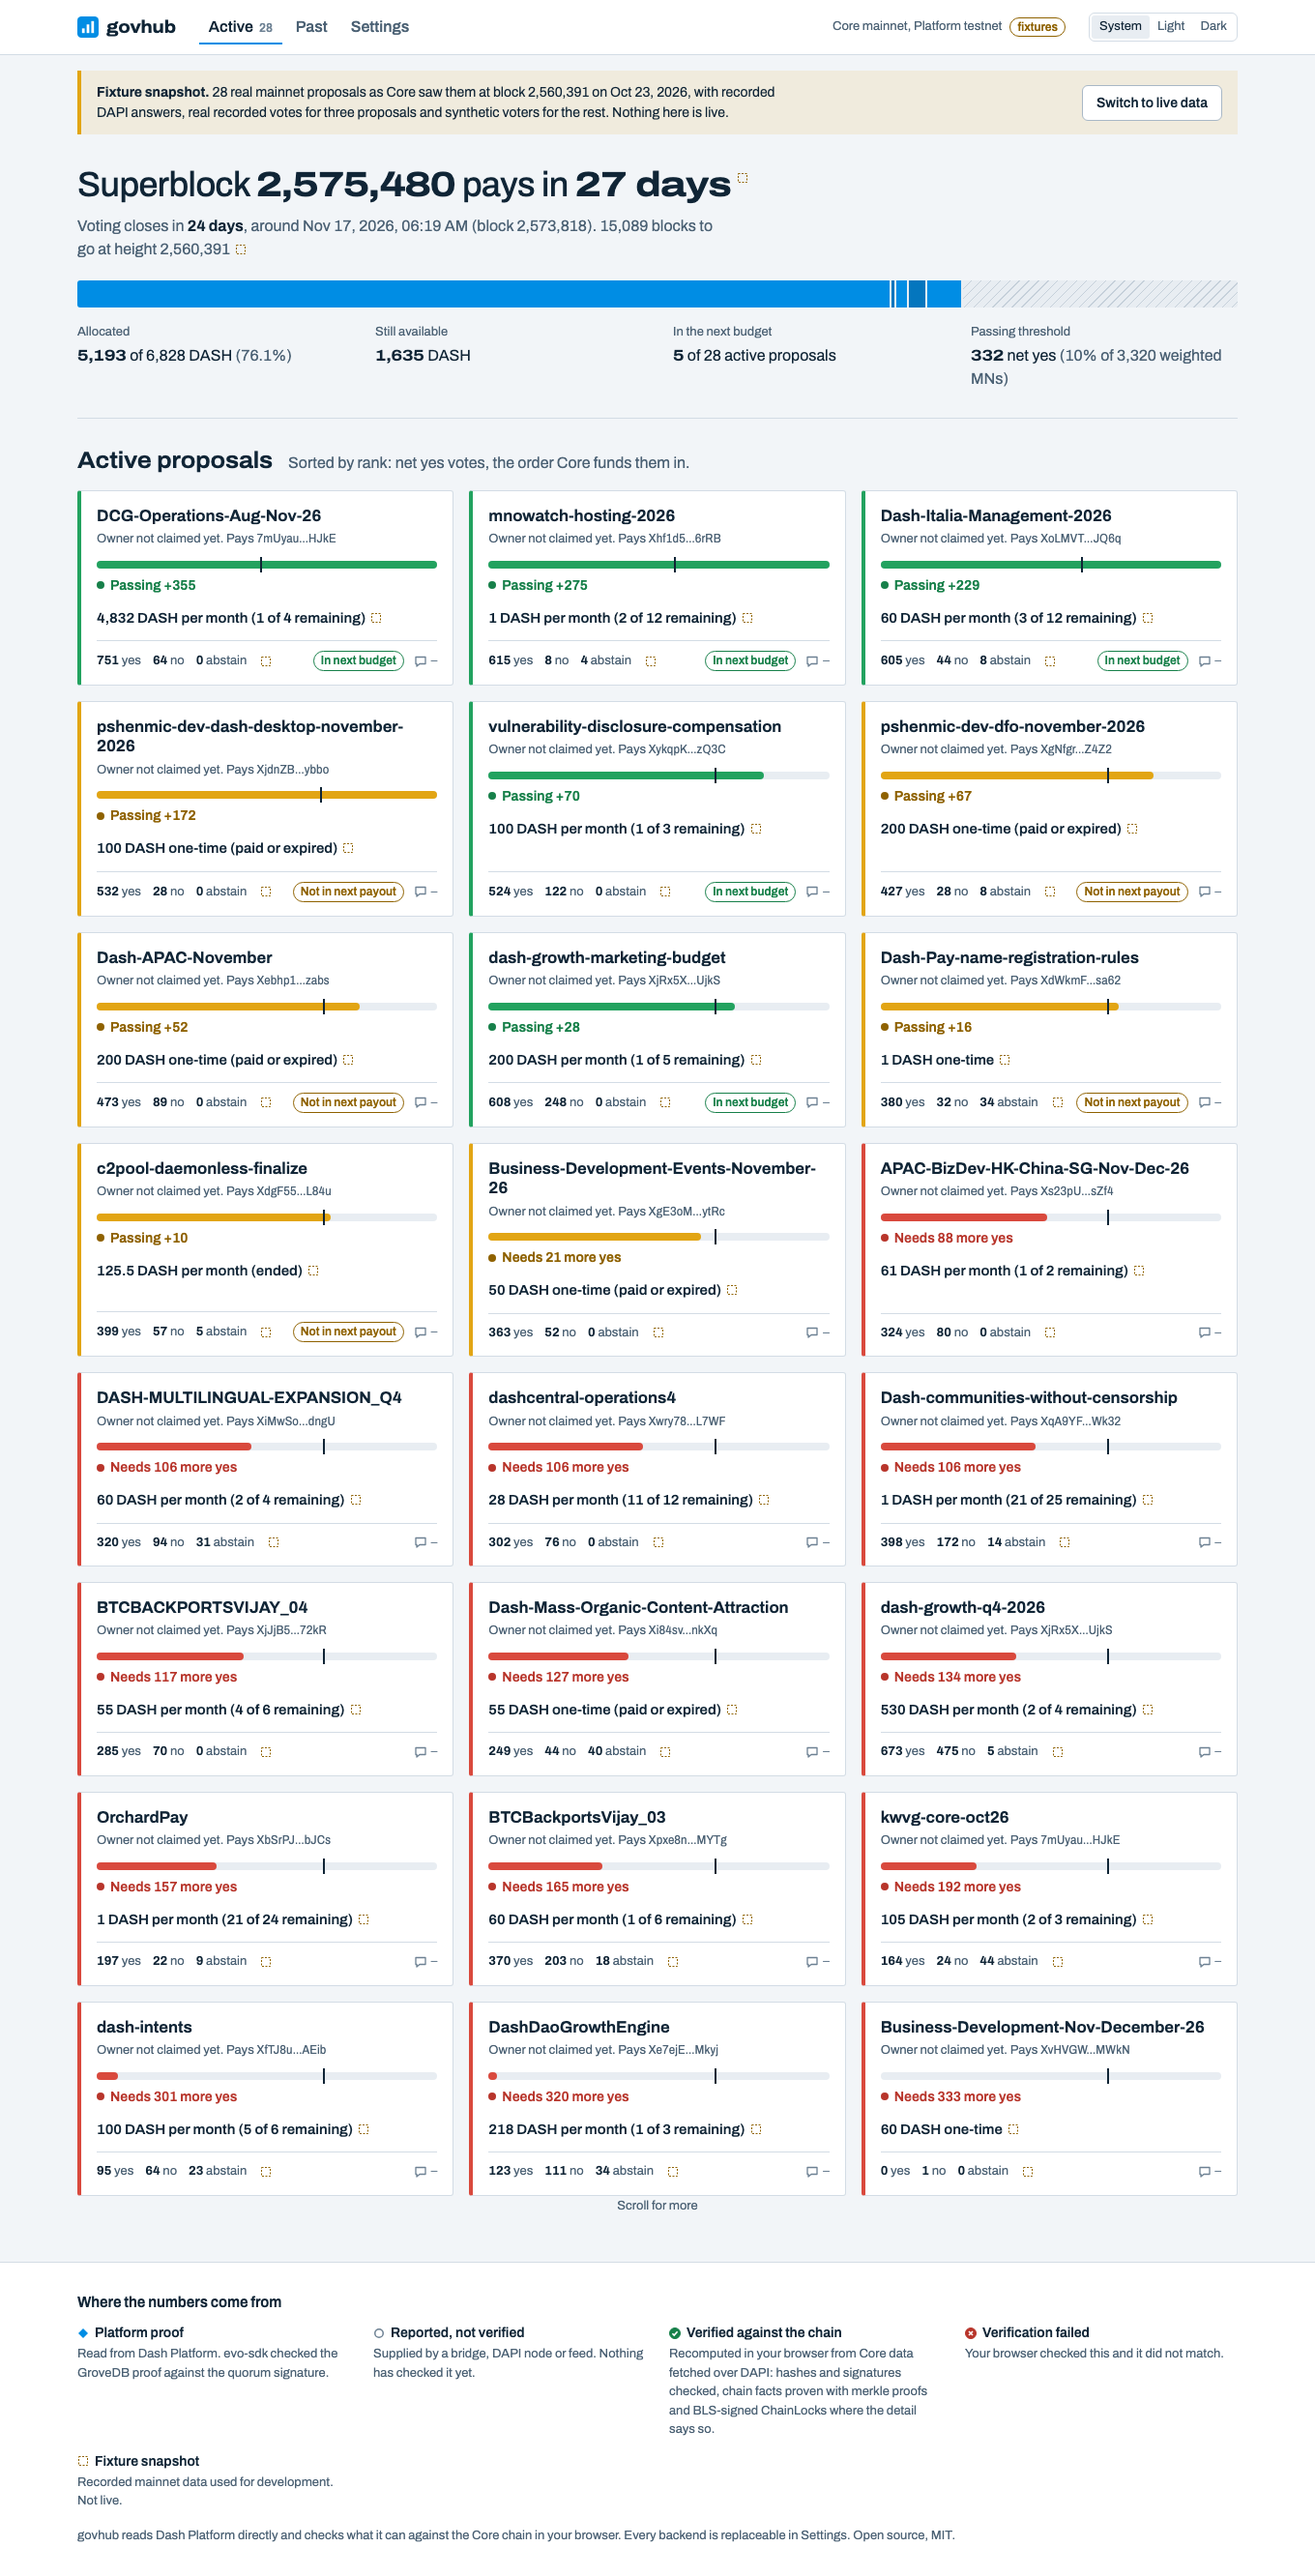
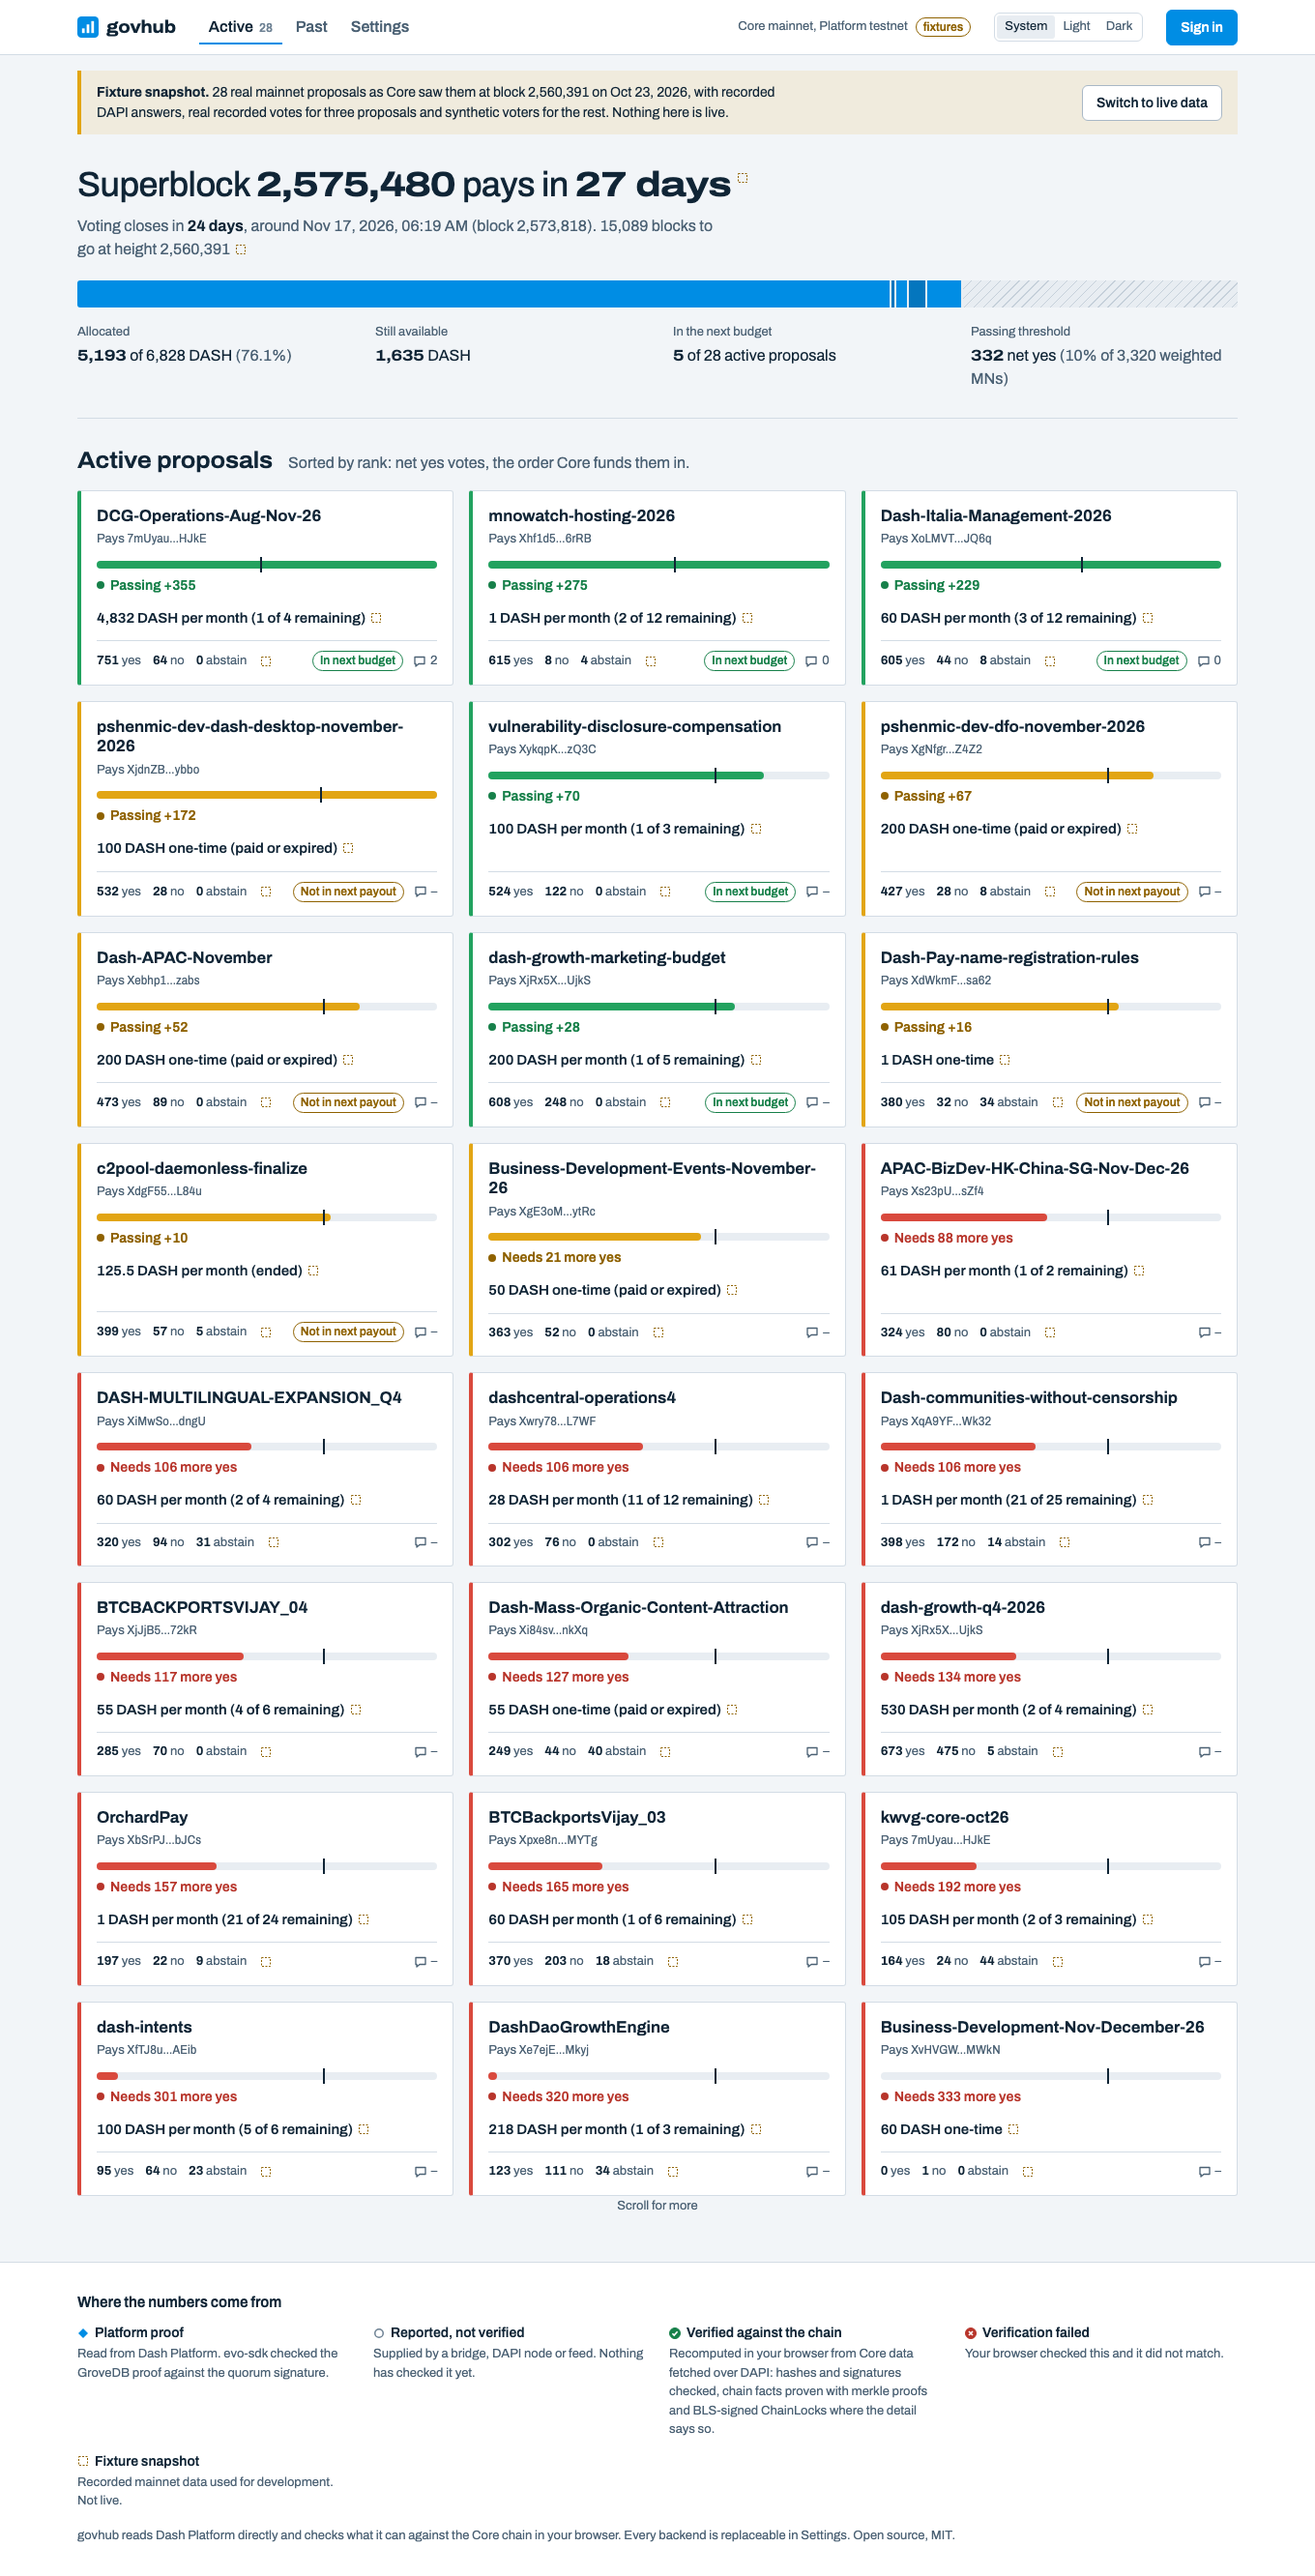
docs(web): regenerate screenshots with discussion, claim panel and owner post
Also keep the string to sign from wrapping at its hyphen.

Changed region(s): [[0.8647, 0.0, 0.9574, 0.0312], [0.7721, 0.0, 0.8029, 0.0312], [0.7103, 0.0, 0.7412, 0.0312]]

diff --git a/apps/web/e2e/screenshots.spec.ts b/apps/web/e2e/screenshots.spec.ts
@@ -58,6 +58,30 @@ test.describe('extra', () => {
     await expect(page.getByTestId('votes-check').locator('[data-votes]')).toHaveAttribute('data-votes', 'keys-reported', { timeout: 30_000 });
     await shoot(page, 'votes-recorded-light-desktop');
   });
+  test('@screenshots discussion with hidden comments shown, signed in, reply open', async ({ page }) => {
+    await gotoFixtures(page, '/p/OrchardPay');
+    await page.getByTestId('session-button').click();
+    await page.getByRole('button', { name: /^Alice$/ }).click();
+    const d = page.getByTestId('discussion');
+    await d.getByTestId('toggle-hidden').click();
+    await d.locator('li.comment > article', { hasText: 'who audits' }).getByRole('button', { name: 'Reply' }).click();
+    await d.scrollIntoViewIfNeeded();
+    await page.evaluate(() => document.fonts.ready);
+    await d.screenshot({ path: 'screenshots/discussion-light-desktop.png', animations: 'disabled' });
+  });
+  test('@screenshots owner post and owner label (attestation)', async ({ page }) => {
+    await gotoFixtures(page, '/p/dash-growth-q4-2026');
+    await expect(page.getByTestId('owner-post').getByRole('heading')).toBeVisible();
+    await shoot(page, 'owner-post-light-desktop');
+  });
+  test('@screenshots claim panel', async ({ page }) => {
+    await gotoFixtures(page, '/p/OrchardPay');
+    await page.getByTestId('session-button').click();
+    await page.getByRole('button', { name: /^Alice$/ }).click();
+    const panel = page.getByTestId('claim-panel');
+    await panel.locator('summary').click();
+    await panel.screenshot({ path: 'screenshots/claim-light-desktop.png', animations: 'disabled' });
+  });
   test('@screenshots duplicate-name chooser', async ({ page }) => {
     await gotoFixtures(page, '/p/Dash-Mass-Organic-Content-Attraction');
     await expect(page.locator('.chooser a')).toHaveCount(2);

diff --git a/apps/web/src/styles.css b/apps/web/src/styles.css
@@ -1568,6 +1568,11 @@ details summary {
   font-family: ui-monospace, SFMono-Regular, Menlo, Consolas, monospace;
   font-size: 0.8125rem;
 }
+/* The string to sign wraps anywhere, never at its hyphen: "govhub-" + newline would read as part of it. */
+.claim-form pre,
+.sign-howto code {
+  word-break: break-all;
+}
 .owner-post {
   margin-block-start: 2rem;
   max-inline-size: 60rem;
